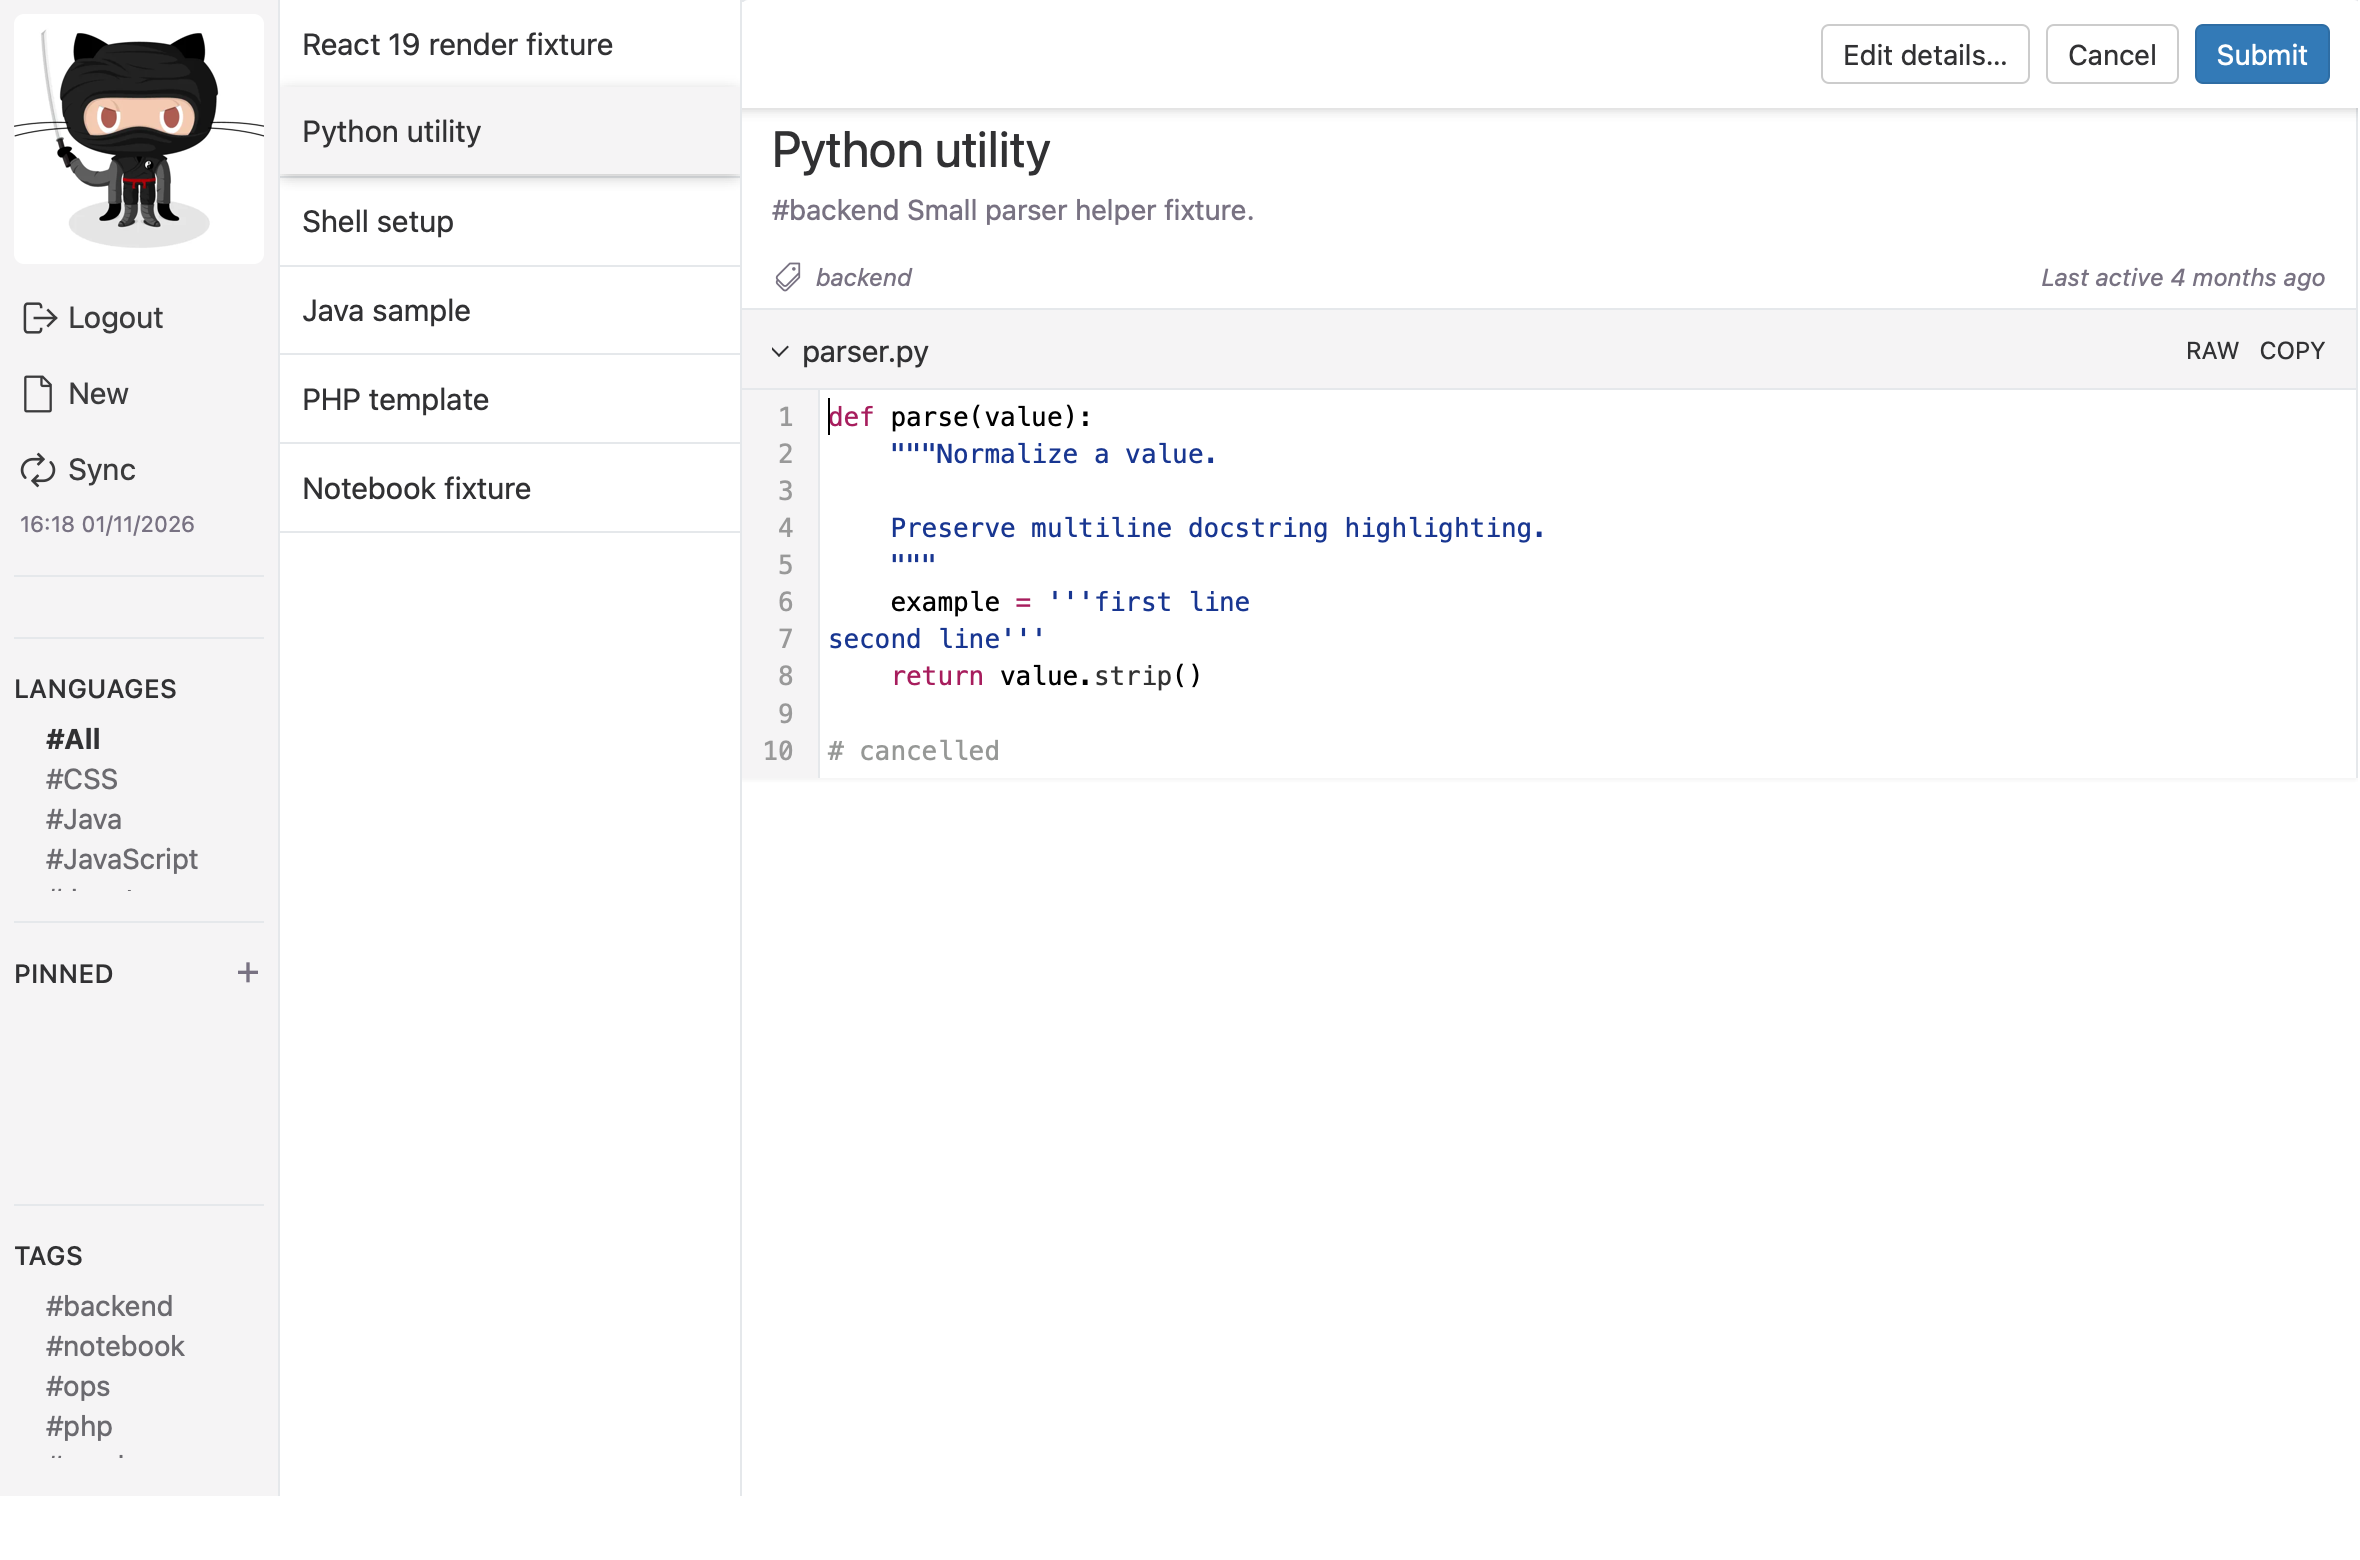
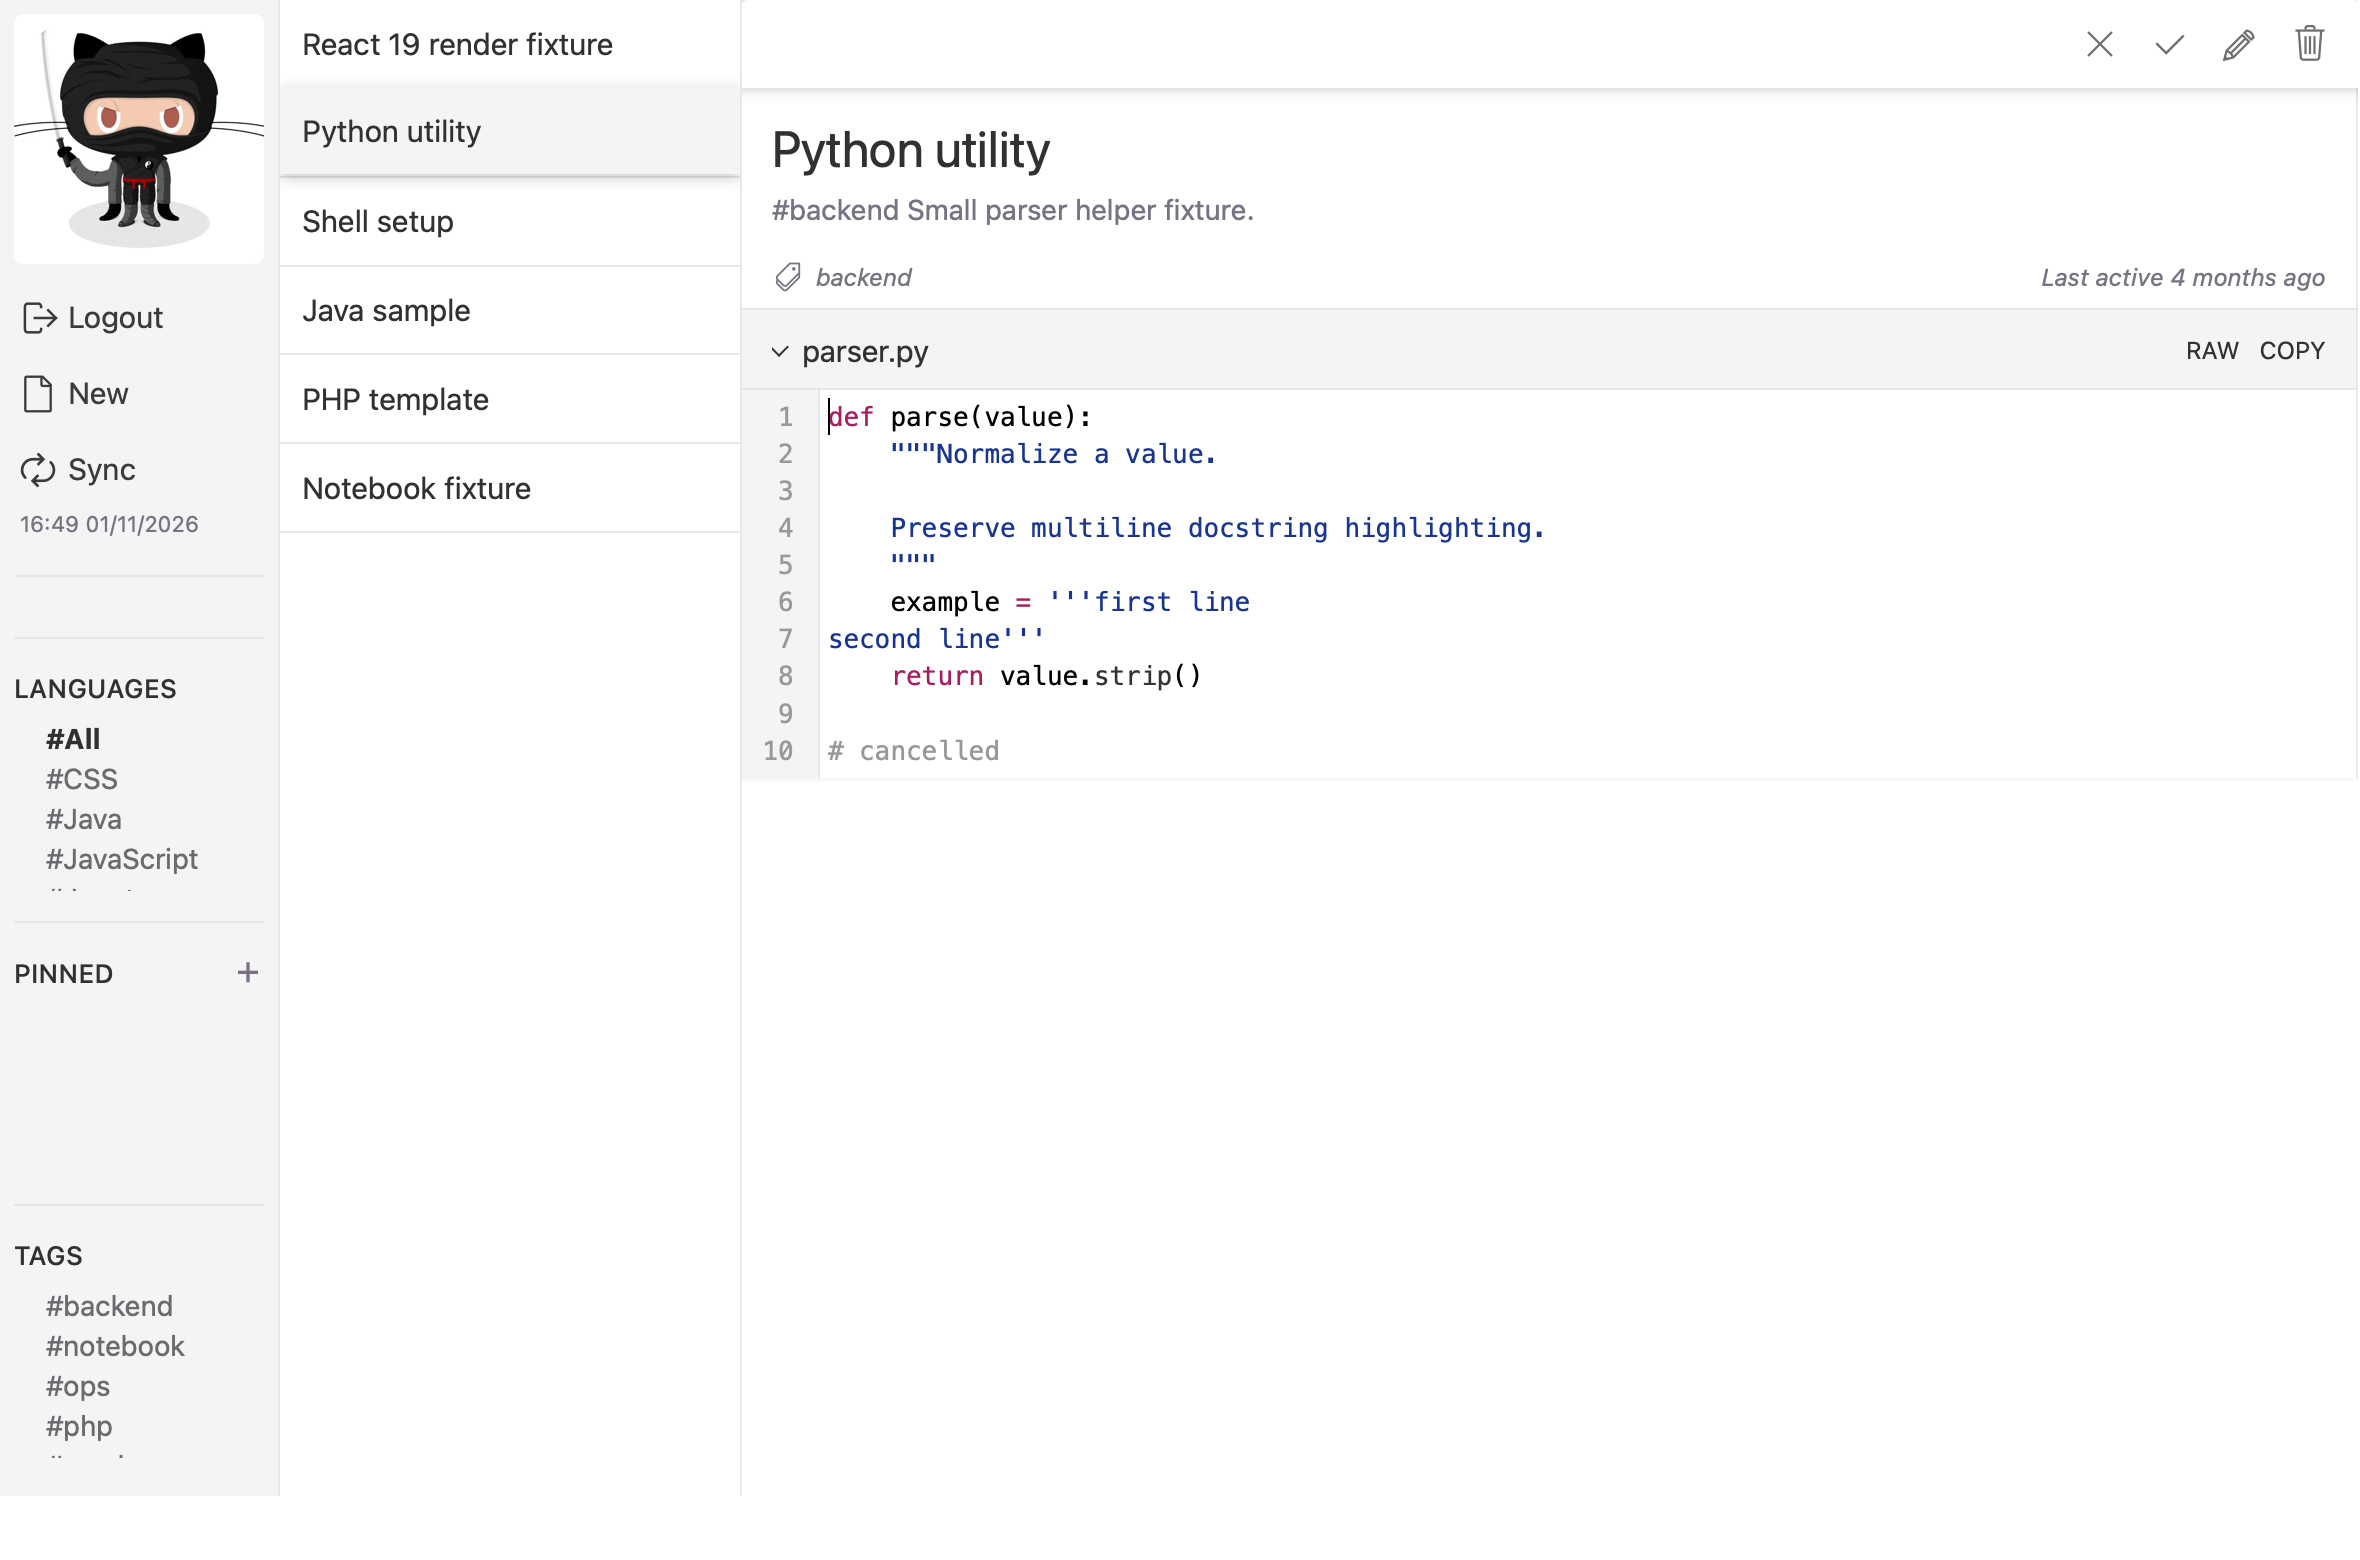
Preserve snippet toolbar and optimize inline previews

Changed region(s): [[0.7733, 0.0, 0.9898, 0.0615], [0.0309, 0.3077, 0.0928, 0.3385]]

diff --git a/prototypes/tauri/legacy/inlineSnippet.js b/prototypes/tauri/legacy/inlineSnippet.js
@@ -49,6 +49,21 @@ function filesFor (snippet) {
   return Object.entries(snippet.details.files).map(([filename, file]) => ({ ...file, filename }))
 }
 
+// Set the language before CodeMirror's first render. The shared editor normally
+// sets it after mounting, which makes large previews render the document twice.
+class InlineGistEditor extends GistEditor {
+  setMode (filename) {
+    const mode = filename && CodeMirror.findModeByFileName(filename)
+    if (!mode || this.editor.getCodeMirror().getOption('mode') !== mode.mime) super.setMode(filename)
+  }
+
+  render () {
+    const editor = super.render()
+    const mode = this.props.filename && CodeMirror.findModeByFileName(this.props.filename)
+    return mode ? React.cloneElement(editor, { options: { ...editor.props.options, mode: mode.mime } }) : editor
+  }
+}
+
 class InlineSnippet extends BaseSnippet {
   constructor (props) {
     super(props)
@@ -101,7 +116,6 @@ class InlineSnippet extends BaseSnippet {
     const draft = currentDrafts().get(this.props.activeGist)
     if (!draft || draft.saving) return
     draft.contents[filename] = value
-    this.repaint()
   }
 
   openFullEditor () {
@@ -168,12 +182,21 @@ class InlineSnippet extends BaseSnippet {
     const draft = currentDrafts().get(this.props.activeGist)
     if (!draft) return original
     const line = original.props.children
-    const [title] = React.Children.toArray(line.props.children)
-    const actions = <div className='header-controls inline-edit-actions'>
-      <button type='button' className='btn btn-default' disabled={ draft.saving } onClick={ () => this.openFullEditor() }>{ inlineMessage('details') }</button>
-      <button type='button' className='btn btn-default' disabled={ draft.saving } onClick={ () => this.closeGistEditorModal() }>{ t('editor.cancel') }</button>
-      <button type='button' className='btn btn-primary' disabled={ draft.saving } onClick={ () => this.submitInline() }>{ t('editor.submit') }</button>
-    </div>
+    const [title, controls] = React.Children.toArray(line.props.children)
+    const originalControls = React.Children.toArray(controls.props.children).map(control => {
+      if (React.isValidElement(control) && control.props.title === t('snippet.edit')) {
+        return React.cloneElement(control, { title: inlineMessage('details'), onClick: event => { event.preventDefault(); this.openFullEditor() } })
+      }
+      return control
+    })
+    const actions = React.cloneElement(controls, { className: 'header-controls inline-edit-actions' },
+      <button key='cancel' type='button' className='snippet-control inline-toolbar-action' title={ t('editor.cancel') } aria-label={ t('editor.cancel') } disabled={ draft.saving } onClick={ () => this.closeGistEditorModal() }>
+        <svg viewBox='0 0 50 50' aria-hidden='true'><path d='M15 13.6 25 23.6 35 13.6 36.4 15 26.4 25 36.4 35 35 36.4 25 26.4 15 36.4 13.6 35 23.6 25 13.6 15z' /></svg>
+      </button>,
+      <button key='submit' type='button' className='snippet-control inline-toolbar-action' title={ t('editor.submit') } aria-label={ t('editor.submit') } disabled={ draft.saving } onClick={ () => this.submitInline() }>
+        <svg viewBox='0 0 50 50' aria-hidden='true'><path d='m12 25 1.5-1.5 8.1 8.1L36.5 16.7l1.5 1.5-16.4 16.4z' /></svg>
+      </button>,
+      ...originalControls)
     return React.cloneElement(original, null, React.cloneElement(line, null, title, actions))
   }
 
@@ -183,7 +206,7 @@ class InlineSnippet extends BaseSnippet {
     if (node.type === CodeArea && isCodeFile(node.props)) {
       const filename = node.props.filename
       return <div key={ node.key } className='inline-code-editor' data-inline-filename={ filename }>
-        <GistEditor ref={ editor => editor?.editor?.getCodeMirror()?.getInputField()?.setAttribute('aria-label', filename) }
+        <InlineGistEditor ref={ editor => editor?.editor?.getCodeMirror()?.getInputField()?.setAttribute('aria-label', filename) }
           filename={ filename } value={ draft ? draft.contents[filename] : node.props.content }
           readOnly={ !draft || draft.saving } onChange={ value => this.changeInline(filename, value) } />
       </div>

diff --git a/prototypes/tauri/legacy/local.css b/prototypes/tauri/legacy/local.css
@@ -2,8 +2,8 @@
 body[data-provider='local'] .starred-tag-section {
   display: none !important;
 }
-body[data-provider='local'] .header-controls .snippet-control:nth-child(2),
-body[data-provider='local'] .header-controls .snippet-control:nth-last-child(2),
+body[data-provider='local'] .header-controls a.snippet-control:nth-of-type(2),
+body[data-provider='local'] .header-controls a.snippet-control:nth-last-of-type(2),
 body[data-provider='local'] .file-header-controls .file-header-control:first-child,
 body[data-provider='local'] .copy-raw-link { display: none !important; }
 body[data-provider='local'] .header-title > * { display: none !important; }
@@ -14,5 +14,5 @@ body[data-provider='local'] .gist-editor-privacy-checkbox { display: none !impor
 
 .snippet-box .inline-code-editor .CodeMirror-scroll { min-height: 0; }
 .snippet-box .inline-code-editor .CodeMirror { font-size: 13px; }
-.snippet-box .inline-edit-actions { display: flex; align-items: center; gap: 8px; }
-.snippet-box .inline-edit-actions .btn { padding: 4px 10px; }
+.snippet-box .inline-toolbar-action { padding: 0; border: 0; background: transparent; cursor: pointer; }
+.snippet-box .inline-toolbar-action:disabled { opacity: .35; cursor: default; }

diff --git a/prototypes/tauri/docs/inline-editor-benchmark.md b/prototypes/tauri/docs/inline-editor-benchmark.md
@@ -1,0 +1,17 @@
+# Inline editor benchmark
+
+Measured on an Apple Silicon Mac, comparing the inline editor at `da0baa0` with the version that initializes the CodeMirror language before its first render. Each version used an optimized Rust build with the UI-test WebDriver enabled, isolated local fixture data, and a visible window. Runs alternated between versions, three launches each.
+
+| Median | Before | After |
+| --- | ---: | ---: |
+| Select a small snippet | 34 ms | 34 ms |
+| Enter small-file edit mode | 33 ms | 33 ms |
+| Display a 512 KiB code file | 700 ms | 250 ms |
+| Enter large-file edit mode | 170 ms | 174 ms |
+| Insert one character in the large file | 50 ms | 50 ms |
+| Memory after viewing the large file | 826 MiB | 766 MiB |
+| Memory after editing the large file | 846 MiB | 785 MiB |
+
+The synthetic JavaScript file has 8,192 lines of 64 bytes. View timings cover selection through two animation frames after the editor is ready; the large view was repeated three times per launch. Editing timings use a programmatic CodeMirror insertion, not real keyboard input. They exclude GitHub and network latency.
+
+Memory sums the resident sizes of the app and its WebKit helper processes, after repeated views or edits; shared pages can be counted more than once. The small sample and WebKit memory variation make these directional measurements, not a promise of typical savings. The measurements compare two Rust builds, not Rust against Electron.
